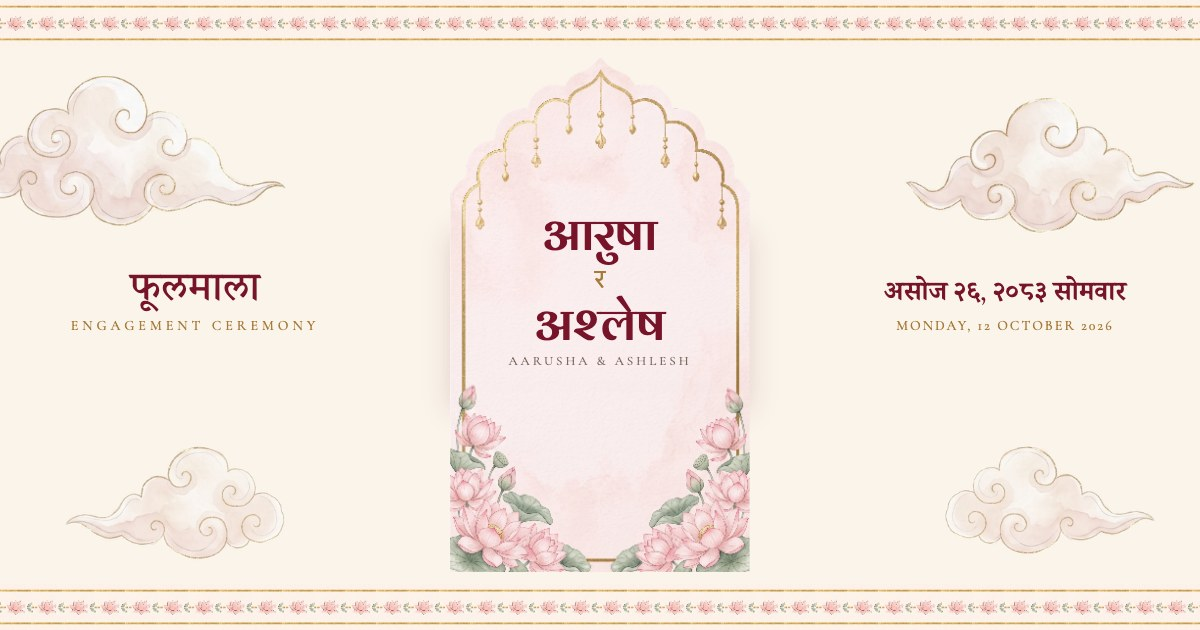
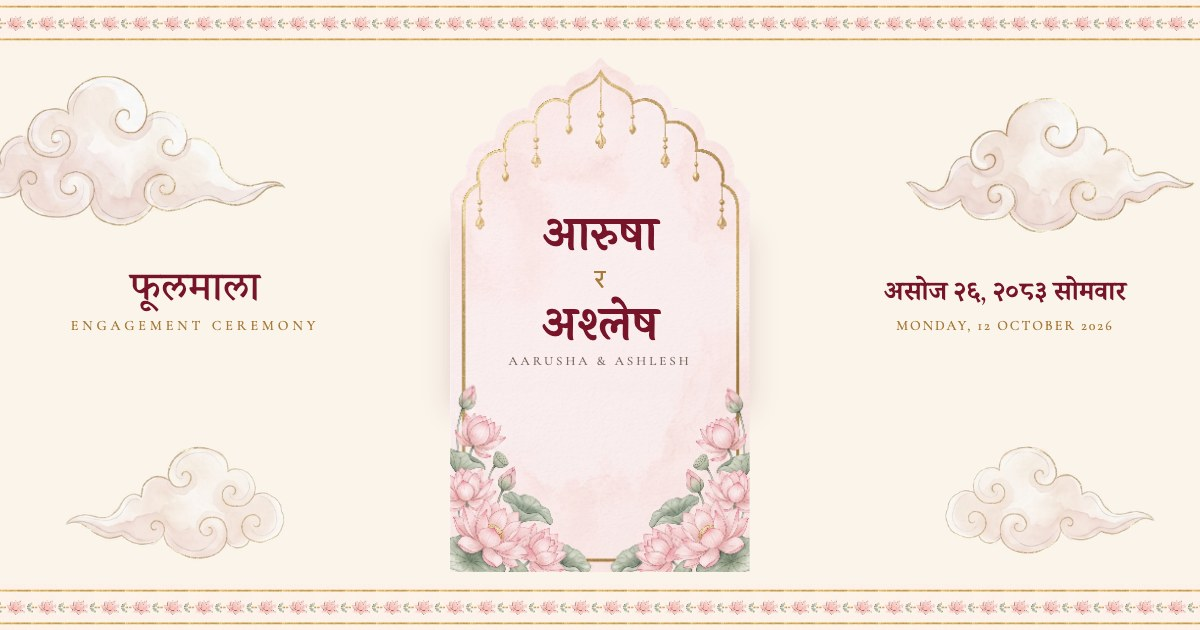
Nepali names in Laila; preload all fonts (both languages) during the envelope; refresh link preview

Changed region(s): [[0.4317, 0.4524, 0.555, 0.5429], [0.4317, 0.3317, 0.555, 0.4222]]

diff --git a/src/lib/fonts.ts b/src/lib/fonts.ts
@@ -1,0 +1,26 @@
+import { invite } from '../content'
+
+// Google Fonts splits each family into per-script files (Latin, Devanagari…) and a browser only downloads a
+// file when a character first needs it — so switching language could flash a fallback font. While the
+// envelope plays, load every face the page uses, for all of the invite's text in both languages.
+const allText = (value: unknown): string =>
+  typeof value === 'string' ? value : Array.isArray(value) ? value.map(allText).join(' ') : value && typeof value === 'object' ? Object.values(value).map(allText).join(' ') : ''
+
+const FACES = [
+  '400 1em "Cormorant Garamond"',
+  '500 1em "Cormorant Garamond"',
+  '600 1em "Cormorant Garamond"',
+  'italic 400 1em "Cormorant Garamond"',
+  '400 1em "Tiro Devanagari Sanskrit"',
+  '400 1em "Noto Serif Devanagari"',
+  '500 1em "Noto Serif Devanagari"',
+  '600 1em "Noto Serif Devanagari"',
+  '400 1em "Parisienne"',
+  '400 1em "Laila"',
+  '600 1em "Laila"',
+]
+
+export function preloadFonts() {
+  const text = allText(invite) + ' ०१२३४५६७८९ 0123456789'
+  return Promise.allSettled(FACES.map((face) => document.fonts.load(face, text)))
+}

diff --git a/src/App.tsx b/src/App.tsx
@@ -3,6 +3,7 @@ import { Intro } from './components/Intro'
 import { Petals } from './components/Petals'
 import { Closing, Details, Hero } from './components/Sections'
 import { LangProvider, LangToggle } from './components/Lang'
+import { preloadFonts } from './lib/fonts'
 import { revealOnScroll, ScrollTrigger, startSmoothScroll } from './lib/motion'
 
 export default function App() {
@@ -12,6 +13,11 @@ export default function App() {
   // between the parting flaps instead of appearing first and animating afterwards.
   const [revealing, setRevealing] = useState(opened)
   const main = useRef<HTMLElement>(null)
+
+  // Fetch every font face (both languages) during the envelope, so the language toggle never flashes.
+  useEffect(() => {
+    preloadFonts()
+  }, [])
 
   useEffect(() => {
     if (!revealing || !main.current) return

diff --git a/index.html b/index.html
@@ -19,7 +19,7 @@
     <link rel="preconnect" href="https://fonts.googleapis.com" />
     <link rel="preconnect" href="https://fonts.gstatic.com" crossorigin />
     <link
-      href="https://fonts.googleapis.com/css2?family=Parisienne&family=Arya:wght@400;700&family=Cormorant+Garamond:ital,wght@0,400;0,500;0,600;1,400;1,500&family=Tiro+Devanagari+Sanskrit:ital@0;1&family=Noto+Serif+Devanagari:wght@400;500;600&display=swap"
+      href="https://fonts.googleapis.com/css2?family=Parisienne&family=Laila:wght@400;600&family=Cormorant+Garamond:ital,wght@0,400;0,500;0,600;1,400;1,500&family=Tiro+Devanagari+Sanskrit:ital@0;1&family=Noto+Serif+Devanagari:wght@400;500;600&display=swap"
       rel="stylesheet"
     />
   </head>

diff --git a/src/index.css b/src/index.css
@@ -18,8 +18,8 @@
   /* Latin first, so English uses Cormorant and Devanagari glyphs fall through to the Nepali face. */
   --font-display: 'Cormorant Garamond', 'Tiro Devanagari Sanskrit', Georgia, serif;
   --font-sans: 'Cormorant Garamond', 'Noto Serif Devanagari', Georgia, serif;
-  /* Just for our names: a romantic flowing script (Parisienne) with a bold, crisp Devanagari (Arya). */
-  --font-names: 'Parisienne', 'Arya', cursive;
+  /* Just for our names: a romantic flowing script (Parisienne) with a graceful Devanagari (Laila). */
+  --font-names: 'Parisienne', 'Laila', cursive;
 }
 
 html.lenis,

diff --git a/src/components/Sections.tsx b/src/components/Sections.tsx
@@ -54,7 +54,7 @@ export function Hero() {
 
         <h1
           data-reveal
-          className={`mt-6 font-names leading-tight text-maroon ${lang === 'en' ? 'text-5xl sm:text-6xl' : 'text-4xl font-bold sm:text-5xl'}`}
+          className={`mt-6 font-names leading-tight text-maroon ${lang === 'en' ? 'text-5xl sm:text-6xl' : 'text-4xl font-semibold sm:text-5xl'}`}
         >
           {t(invite.partnerOne)}
           <span className={`block text-gold ${lang === 'en' ? 'text-3xl' : 'text-2xl'}`}>{t(invite.and)}</span>
